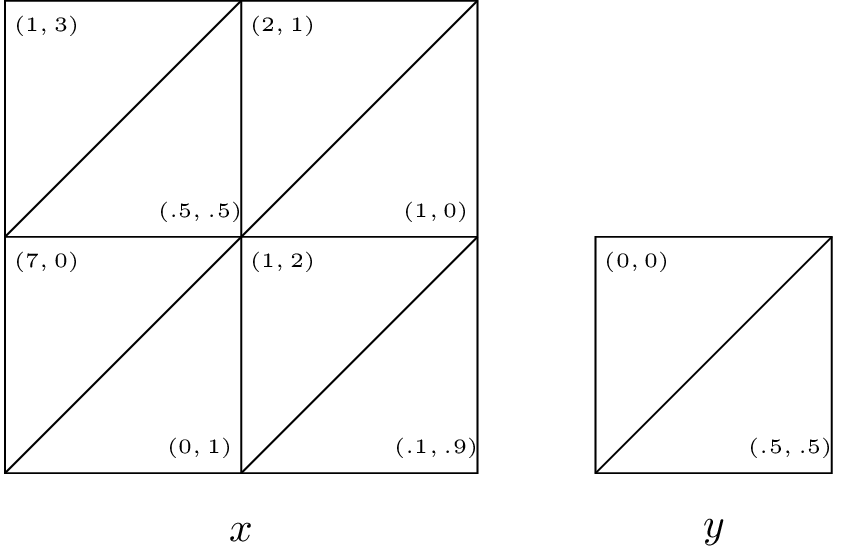
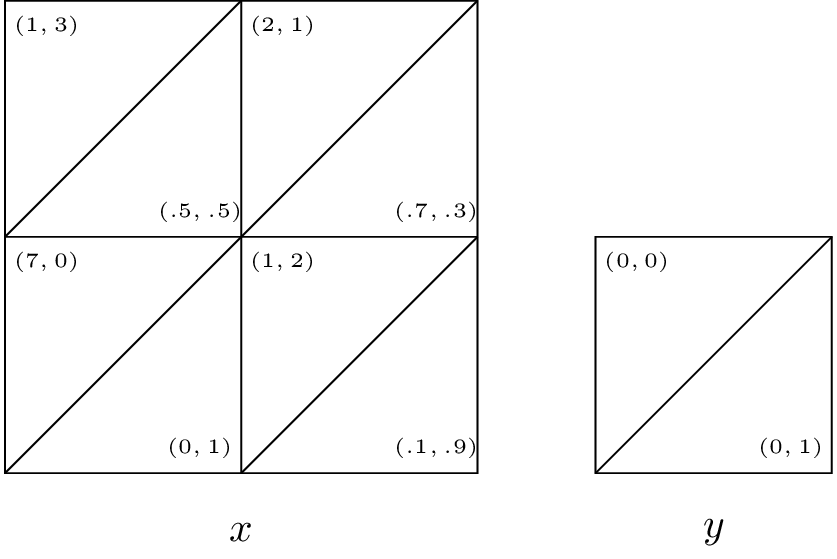
Working on hw 4

diff --git a/Homework/images/E04-img03.tex b/Homework/images/E04-img03.tex
@@ -19,14 +19,14 @@
     \node [right=10pt,below] at (2,2) {\tiny $(1,2)$};
     \node [right=10pt,below] at (0,2) {\tiny $(7,0)$};
     \node [left=10pt,above] at (2,2) {\tiny $(.5,.5)$};
-    \node [left=10pt,above] at (4,2) {\tiny $(1,0)$};
+    \node [left=10pt,above] at (4,2) {\tiny $(.7,.3)$};
     \node (X) [left=10pt,above] at (2,0) {\tiny $(0,1)$};
     \node (Y) [left=10pt,above] at (4,0) {\tiny $(.1,.9)$};
 
     \draw [rectangle] (5,0) -- (7,0) -- (7,2) -- (5,2) -- cycle;
     \draw (5,0) -- (7,2);
     \node (C) [right=10pt,below] at (5,2) {\tiny $(0,0)$};
-    \node (Z) [left=10pt,above] at (7,0) {\tiny $(.5,.5)$};
+    \node (Z) [left=10pt,above] at (7,0) {\tiny $(0,1)$};
 
 
     \node at (2,-.5) {$x$};

diff --git a/Solutions/Solution_4.md b/Solutions/Solution_4.md
@@ -173,6 +173,28 @@
 
 5. Obtain the Markov Nash equilibrium for the following games assuming $\delta=1/4$.
 
-![](images/E04-img01.png)\
-![](images/E04-img02.png)\
-![](images/E04-img03.png)\
+    ![](images/E04-img01.png)\
+
+    **Solution**
+
+    State $y$ gives no value to either player so we only need to consider state $x$. Let the future gains to player 1 in state $x$ be $u$ and the future gains to player 2 in state $x$ be $v$. Thus the players are facing the following game:
+
+    $$\begin{pmatrix}
+    (3+3u/40, 2+3v/40) & (1+u/20, 7+v/20)\\
+    (2, 1) & (6+u/4, 3+v/4)
+    \end{pmatrix}$$
+
+
+    There are four possible equilibria:
+
+    1. $(a,b)$ which requires: $3+3u/40\geq 2$ and $2+3v/40\geq 7+v/20$ $\Rightarrow$ $u\geq -40/3$ and $v\geq 200$. However if this is the equilibria then $u=120/37$ and $v=80/37$ which contradicts the constraints.
+
+    2. $(a,d)$ which requires: $1+u/20\geq 6+u/4$ and $2+3v/40\leq 7+v/20$ $\Rightarrow$ $u\leq -25$ and $v\leq 200$. However if this is the equilibria then $u=20/19$ and $v=140/19$ which contradicts the constraints.
+
+    3. $(b,c)$ which requires: $2\geq 3+3u/40$ and $1\geq 3+v/4$ $\Rightarrow$ $u\leq -40/3$ and $v\leq -8$. However if this is the equilibria then $u=2$ and $v=1$ which contradicts the constraints.
+
+    4. $(b,d)$ which requires: $2\leq 3+3u/40$ and $1\leq 3+v/4$ $\Rightarrow$ $u\geq -40/3$ and $v\geq -8$. However if this is the equilibria then $u=8$ and $v=4$ which \textbf{does not} contradict the constraints.
+
+
+    ![](images/E04-img02.png)\
+    ![](images/E04-img03.png)\
